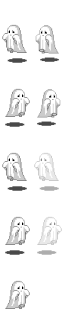
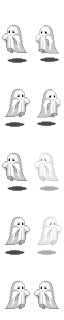
added background and animations

Changed region(s): [[0.5312, 0.875, 0.9062, 0.9688]]

diff --git a/src/com/JHEF/wth/objects/Player.java b/src/com/JHEF/wth/objects/Player.java
@@ -5,9 +5,12 @@ import com.JHEF.wth.framework.ObjectId;
 import com.JHEF.wth.framework.Texture;
 import com.JHEF.wth.window.Game;
 import com.JHEF.wth.window.Handler;
+import com.JHEF.wth.window.Animation;
 
 import java.awt.*;
 import java.util.LinkedList;
+
+
 
 public class Player extends GameObject {
 
@@ -16,6 +19,8 @@ public class Player extends GameObject {
     private final float MAX_SPEED = 7;
 
     private Handler handler;
+
+    private Animation playerWalk;
 
     Texture tex = Game.getInstance();
 
@@ -29,6 +34,8 @@ public class Player extends GameObject {
     public Player(float x, float y, Handler handler, ObjectId id) {
         super(x, y, id);
         this.handler = handler;
+
+        playerWalk = new Animation(10, tex.player[1], tex.player[2]);
     }
 
     public void tick(LinkedList<GameObject> object) {
@@ -44,6 +51,7 @@ public class Player extends GameObject {
         }
 
         Collision(object);
+        playerWalk.runAnimation();
     }
 
     private void Collision(LinkedList<GameObject> object) {
@@ -84,7 +92,12 @@ public class Player extends GameObject {
 
     public void render(Graphics g) {
         g.setColor(Color.GREEN);
-        g.drawImage(tex.player[0],(int)x,(int)y,null);
+        if(velX != 0){
+            playerWalk.drawAnimation(g,(int)x,(int)y);
+        } else {
+
+            g.drawImage(tex.player[0], (int) x, (int) y, null);
+        }
 
 //        Graphics2D g2d = (Graphics2D) g;
 //

diff --git a/src/com/JHEF/wth/window/Animation.java b/src/com/JHEF/wth/window/Animation.java
@@ -1,0 +1,62 @@
+package com.JHEF.wth.window;
+
+import java.awt.*;
+import java.awt.image.BufferedImage;
+
+public class Animation {
+
+    private int speed;
+
+    private int frames;
+
+    private int count = 0;
+
+    private int index = 0;
+
+    private BufferedImage[] images;
+
+    private BufferedImage currentImg;
+
+    public Animation(int speed, BufferedImage... args){
+        this.speed = speed;
+        images = new BufferedImage[args.length];
+        for(int i = 0; i <args.length;i++){
+            images[i] = args[i];
+        }
+        frames = args.length;
+
+
+    }
+
+    public void runAnimation(){
+
+        index++;
+        if(index > speed){
+            index = 0;
+            nextFrame();
+        }
+    }
+
+    private void nextFrame(){
+        for(int i = 0; i < frames; i++){
+            if(count == i) currentImg = images[i];
+
+        }
+
+        count++;
+        if(count > frames) count = 0;
+    }
+
+    public void drawAnimation(Graphics g, int x, int y){
+
+        g.drawImage(currentImg,x,y,null);
+    }
+
+    public void drawAnimation(Graphics g, int x, int y, int scaleX, int scaleY){
+
+        g.drawImage(currentImg,x,y,scaleX, scaleY,null);
+    }
+
+}
+
+

diff --git a/src/com/JHEF/wth/framework/Texture.java b/src/com/JHEF/wth/framework/Texture.java
@@ -11,7 +11,7 @@ public class Texture {
     private BufferedImage player_sheet = null;
 
     public BufferedImage[] block = new BufferedImage[22];
-    public BufferedImage[] player = new BufferedImage[1];
+    public BufferedImage[] player = new BufferedImage[11];
 
     public Texture() {
 
@@ -55,6 +55,19 @@ public class Texture {
         block[20] = bs.grabImage(8,1,32,32); //bottom middle cloud
         block[21] = bs.grabImage(9,1,32,32); //bottom right cloud
 
-        player[0] = ps.grabImage(1,2,32,64);//player
+        player[0] = ps.grabImage(1,2,32,64);//player facing right
+        player[1] = ps.grabImage(2,2,32,64);//player facing right 2
+        player[2] = ps.grabImage(1,4,32,64);//player damage right
+        player[3] = ps.grabImage(1,5,32,64);//player damage right 2
+
+        player[4] = ps.grabImage(1,1,32,64);//player facing left
+        player[5] = ps.grabImage(2,1,32,64);//player facing left left 2
+        player[6] = ps.grabImage(1,3,32,64);//player damage left
+        player[7] = ps.grabImage(2,3,32,64);//player damage left 2
+
+        player[9] = ps.grabImage(1,5,32,64);//player jump right
+        player[10] = ps.grabImage(2,5,32,64);//player jump left
+
+
     }
 }

diff --git a/src/com/JHEF/wth/window/Game.java b/src/com/JHEF/wth/window/Game.java
@@ -24,6 +24,7 @@ public class Game extends Canvas implements Runnable {
     public static int WIDTH, HEIGHT;
 
     private BufferedImage level = null;
+    private BufferedImage background = null;
 
 
     // Object
@@ -41,6 +42,7 @@ public class Game extends Canvas implements Runnable {
 
         BufferedImageLoader loader = new BufferedImageLoader();
         level = loader.loadImage("/hell.png");
+        background = loader.loadImage("/hell_BG.gif");
 
         handler = new Handler();
 
@@ -240,6 +242,8 @@ public class Game extends Canvas implements Runnable {
 
         g.setColor(Color.black);
         g.fillRect(0, 0, getWidth(), getHeight()); // Stop flickering
+
+        g.drawImage(background,0,0,this);
 
         g2d.translate(cam.getX(),cam.getY()); //begin of cam
 
